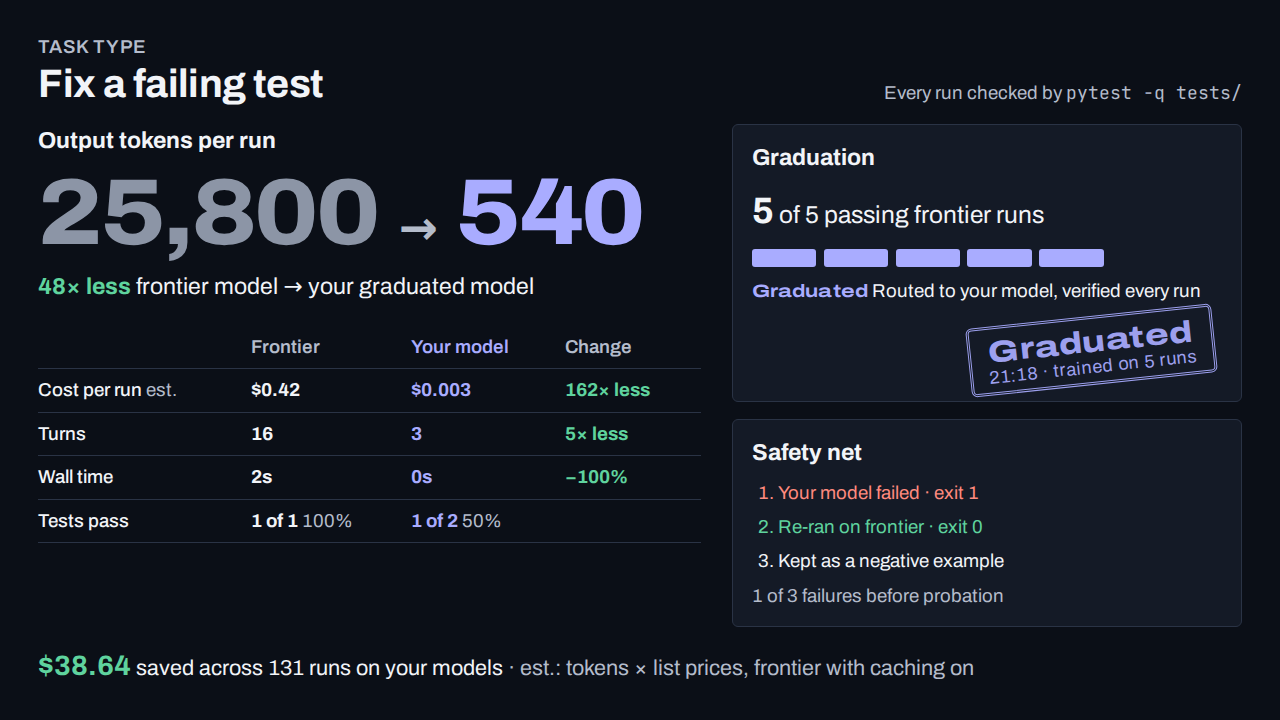
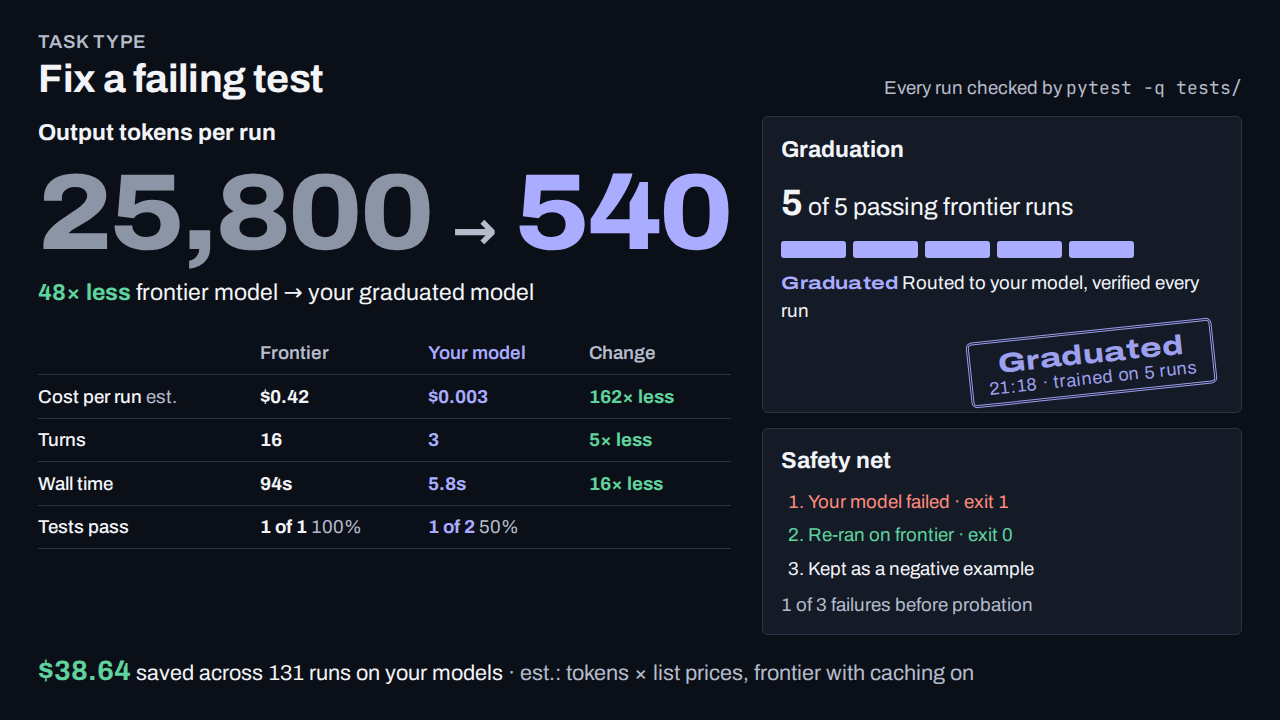
Showcase polish: sub-second wall time in ms, no claim from a zero, presenter views fit one screen (#55)
Wall time shows 94s / 5.8s / 340ms; changes come from unrounded averages
and a zero side shows none. make screens now fails any view cut off at
the bottom (Under the hood: the diagram), so presenter Overview and
Under the hood are fitted: 3 newest events, no verify commands or note,
condensed SVG labels. state.graduated.json gets realistic wall_secs.

diff --git a/ui/projector.css b/ui/projector.css
@@ -17,29 +17,36 @@ html.present .wrap { max-width: none; padding: 0 3vw; }
 html.present body { font-size: calc(var(--u) * 2.6); }
 html.present h1 { font-size: calc(var(--u) * 5.5); }
 html.present h2 { font-size: calc(var(--u) * 3.2); }
-html.present .savings .amount { font-size: calc(var(--u) * 9); }
+html.present .savings .amount { font-size: calc(var(--u) * 7); }
 html.present :is(code, pre, .btn.sm, .savings .what small, .roster th, .roster .name code, .roster .route,
-  .unclassified td, .roster td[data-label]::before, .state, .log li, .log time, .log header span, .back,
+  .unclassified td, .state, .log li, .log time, .log header span, .back,
   .stamp small, .lifecycle li, .lifecycle li b, .metric .label, .bar, .note, dl.facts, table.runs, table.runs th,
   .toast, figure.arch figcaption, .detail h3, .where, .badge, .wire li, .wire time, .wire .who a) {
   font-size: calc(var(--u) * 2.5);
 }
-html.present .cols { grid-template-columns: minmax(0, 1fr) 27vw; gap: 2vw; }
-html.present .roster :is(th, td) { padding: calc(var(--u) * 1) calc(var(--u) * 1.2); }
+html.present .cols { grid-template-columns: minmax(0, 1fr) 25vw; gap: 2vw; }
+html.present .roster :is(th, .name a) { white-space: nowrap; }
+html.present .savings { margin-bottom: calc(var(--u) * 2); }
+html.present .savings .what { max-width: 70ch; }
+html.present .cols .note { display: none; }
+html.present .roster :is(th, td) { padding: calc(var(--u) * 0.6) calc(var(--u) * 1); }
 html.present .log { max-height: none; }
+html.present .log li:nth-child(n+4), html.present .roster .name code { display: none; }  /* fits 720p: 3 newest events; verify commands are on each task page */
+html.present #app:has(.arch) > .lede { display: none; }
+html.present figure.arch svg { width: min(100%, (100vh - var(--u) * 26) * 1030 / 530); min-width: 0; margin: 0 auto; }
 html.present :is(.log li, .wire li) { grid-template-columns: auto 1fr; }
-html.present .arch .node text { font-size: 16px; }
-html.present :is(.arch .node text.sub, .arch .edge text) { font-size: 15px; }
+html.present .arch .node text { font-size: 17px; }
+html.present :is(.arch .node text.sub, .arch .edge text) { font-size: 16px; font-stretch: 75%; }
 html.present #app [style*="font-size"] { font-size: calc(var(--u) * 2.5) !important; }
 html.present .pips i { width: calc(var(--u) * 2.4); height: calc(var(--u) * 1); }
 html.blackout body { visibility: hidden; background: #000; }
 
 /* Showcase: fills the screen in both modes, sized in --u so nothing scrolls. */
+html.present .show { align-content: center; min-height: calc(100vh - var(--u) * 6); }
 #app:has(.show) { max-width: none; padding: 0 3vw; }
-main:has(.show) { padding: calc(var(--u) * 3) 0; }
+main:has(.show) { padding: calc(var(--u) * 2) 0; }
 .show {
-  display: grid; gap: calc(var(--u) * 2.4) 2.4vw; font-size: calc(var(--u) * 2.6);
-  align-content: center; min-height: calc(100vh - var(--u) * 6);
+  display: grid; gap: calc(var(--u) * 2) 2.4vw; font-size: calc(var(--u) * 2.6);
   grid-template-columns: 1.3fr 1fr; grid-template-areas: "head head" "hero grad" "hero esc" "foot foot";
 }
 .show h1 { font-size: calc(var(--u) * 6); margin: 0; }
@@ -51,6 +58,7 @@ main:has(.show) { padding: calc(var(--u) * 3) 0; }
 .show-verify { margin: 0; color: var(--muted); }
 .show-hero { grid-area: hero; }
 .hero { margin: 0; display: flex; align-items: baseline; gap: 1.6vw; line-height: 1; font-weight: 800; font-stretch: 110%; font-size: calc(var(--u) * 13); letter-spacing: -0.02em; }
+html.present .hero { font-size: calc(var(--u) * 15); }
 .hero .f { color: var(--rented); }
 .hero .o { color: var(--owned); }
 .hero .arrow { font-size: 0.5em; color: var(--muted); }
@@ -73,7 +81,7 @@ main:has(.show) { padding: calc(var(--u) * 3) 0; }
 .bigpips i { flex: 1; max-width: calc(var(--u) * 9); height: calc(var(--u) * 2.4); border-radius: 3px; background: var(--rule); }
 .bigpips i.on { background: var(--owned); }
 .show .state { font-size: 1em; }
-.show .stamp { display: block; width: fit-content; margin: calc(var(--u) * 1.6) calc(var(--u) * 1) 0 auto; font-size: calc(var(--u) * 4.2); }
+.show .stamp { display: block; width: fit-content; margin: calc(var(--u) * 0.8) calc(var(--u) * 1) 0 auto; font-size: calc(var(--u) * 3.8); }
 .show .stamp small { font-size: calc(var(--u) * 2.5); color: inherit; }
 .show .badge { font-size: calc(var(--u) * 2.5); }
 .steps { margin: 0; padding-left: 1.4em; display: grid; gap: calc(var(--u) * 0.8); }

diff --git a/ui/present.js b/ui/present.js
@@ -21,8 +21,10 @@ function showTask(a) {
   return last ? last.task_type : Object.keys(all)[0];
 }
 
+// Changes come from unrounded averages; a zero on either side makes no claim.
 const change = (f, o) => {
-  if (o === 0 || f / o >= 3) return o === 0 ? "−100%" : `${Math.round(f / o)}× less`;
+  if (!o || !f) return "";
+  if (f / o >= 3) return `${Math.round(f / o)}× less`;
   const pct = Math.round((o / f - 1) * 100);
   return pct ? `${pct > 0 ? "+" : "−"}${Math.abs(pct)}%` : "same";
 };
@@ -38,7 +40,7 @@ function viewShow(a) {
   const cell = (x, fmt) => x ? fmt(x) : none;
   const row = (label, key, fmt, delta = true) => `<tr><th scope="row">${label}</th>
     <td data-qa="${key}-frontier">${cell(f, fmt)}</td><td class="own" data-qa="${key}-owned">${cell(o, fmt)}</td>
-    <td class="chg">${delta && f && o && f[key] ? change(f[key], o[key]) : ""}</td></tr>`;
+    <td class="chg">${delta && f && o ? change(f[key], o[key]) : ""}</td></tr>`;
   const pass = (x) => `${x.passed} of ${x.n} <span class="muted">${Math.round((x.passed / x.n) * 100)}%</span>`;
 
   const esc_ = [...rows].reverse().find((r) => r.escalated_from);
@@ -63,7 +65,7 @@ function viewShow(a) {
       <tbody>
         ${row("Cost per run <small>est.</small>", "cost", (x) => money(x.cost))}
         ${row("Turns", "turns", (x) => round(x.turns))}
-        ${row("Wall time", "wall", (x) => `${round(x.wall)}s`)}
+        ${row("Wall time", "wall", (x) => x.wall < 1 ? `${Math.round(x.wall * 1000)}ms` : x.wall < 10 ? `${x.wall.toFixed(1)}s` : `${Math.round(x.wall)}s`)}
         ${row("Tests pass", "pass", pass, false)}
       </tbody>
     </table>

diff --git a/scripts/screens.py b/scripts/screens.py
@@ -1,8 +1,9 @@
 """make screens (#55): the dashboard against the fixtures, headless, at projector sizes.
 
 Serves the repo root on a free port, opens ui/index.html?state=<fixture> in Chromium (Playwright) and saves
-docs/screens/<fixture>-<view>-<size>.png. Fails on console errors, failed requests, horizontal overflow, and on
-text under innerHeight/45 (16px at 720p, the r2 roadmap's floor), and on the presenter showcase also on vertical overflow or a wrong 5-of-5 count.
+docs/screens/<fixture>-<view>-<size>.png. Fails on console errors, failed requests, horizontal overflow, a view
+cut off at the bottom, text under innerHeight/45 (16px at 720p, the r2 roadmap's floor), and on the presenter showcase
+a wrong 5-of-5 count.
 Offline; needs `pip install playwright && playwright install chromium`.
 """
 
@@ -19,10 +20,12 @@ ROOT = Path(__file__).resolve().parents[1]
 OUT = ROOT / "docs" / "screens"
 FIXTURES = ["state.example", "state.graduated"]
 SIZES = [(1920, 1080), (1280, 720)]
-VIEWS = [("show", "#/show", ""), ("show-present", "#/show", "&present"), ("overview-present", "#/", "&present"), ("system-present", "#/system", "&present")]
+# (name, hash, query, what must sit fully on screen: the whole view, or on Under the hood the diagram; its logs scroll below)
+VIEWS = [("show", "#/show", "", ".show"), ("show-present", "#/show", "&present", "#app"),
+         ("overview-present", "#/", "&present", "#app"), ("system-present", "#/system", "&present", "figure.arch")]
 
-# [overflow-x (page or a box its content spills out of), overflow-y, smallest text px and its text]; SVG text is measured on screen, not in user units.
-MEASURE = """() => {
+# [overflow-x (page or a box its content spills out of), cut off at the bottom, smallest text px and its text]; SVG text is measured on screen, not in user units.
+MEASURE = """(fold) => {
   const d = document.documentElement, texts = [];
   const w = document.createTreeWalker(document.getElementById("app"), NodeFilter.SHOW_TEXT);
   for (let n; (n = w.nextNode());) {
@@ -34,7 +37,7 @@ MEASURE = """() => {
   texts.sort((a, b) => a[0] - b[0]);
   const spill = [...document.querySelectorAll("#app *")].some((el) =>
     !el.closest("svg") && el.scrollWidth > el.clientWidth + 1 && el.clientWidth && getComputedStyle(el).overflowX === "visible");
-  return [d.scrollWidth > innerWidth || spill, d.scrollHeight > innerHeight, texts[0]];
+  return [d.scrollWidth > innerWidth || spill, document.querySelector(fold).getBoundingClientRect().bottom > innerHeight, texts[0]];
 }"""
 
 
@@ -55,7 +58,7 @@ def main():
         for fx in FIXTURES:
             state = json.loads((ROOT / "fixtures" / f"{fx}.json").read_text())
             for w, h in SIZES:
-                for view, hash_, flag in VIEWS:
+                for view, hash_, flag, fold in VIEWS:
                     name = f"{fx.removeprefix('state.')}-{view}-{w}x{h}"
                     page = browser.new_page(viewport={"width": w, "height": h})
                     errors = []
@@ -67,14 +70,14 @@ def main():
                     page.wait_for_selector("#app > :not(.lede)")  # rendered past "Loading…"
                     page.evaluate("document.fonts.ready")
                     page.wait_for_timeout(600)  # let the stamp animation settle
-                    over_x, over_y, (px, text) = page.evaluate(MEASURE)
+                    over_x, over_y, (px, text) = page.evaluate(MEASURE, fold)
                     page.screenshot(path=OUT / f"{name}.png")
-                    problems = errors + ["horizontal overflow"] * over_x + [f"text {px}px < {h / 45}px: {text!r}"] * (px < h / 45)
+                    problems = errors + ["horizontal overflow"] * over_x + [f"{fold} cut off at the bottom"] * over_y
+                    problems += [f"text {px}px < {h / 45}px: {text!r}"] * (px < h / 45)
                     if view == "show-present":
                         k = page.get_attribute("[data-qa=state]", "class").split()[-1]
                         t = next(t for t in state["registry"]["task_types"].values() if t["state"] == k)
                         want = str(min(t["verified_runs"], state["config"]["n"]))
-                        problems += ["vertical overflow"] * over_y
                         problems += [f"verified {page.inner_text('[data-qa=verified]')} != {want}"] * (page.inner_text("[data-qa=verified]") != want)
                     print(f"{'FAIL' if problems else 'ok  '} {name:38} smallest text {px}px", *problems, sep="\n     " if problems else "")
                     failures += problems
